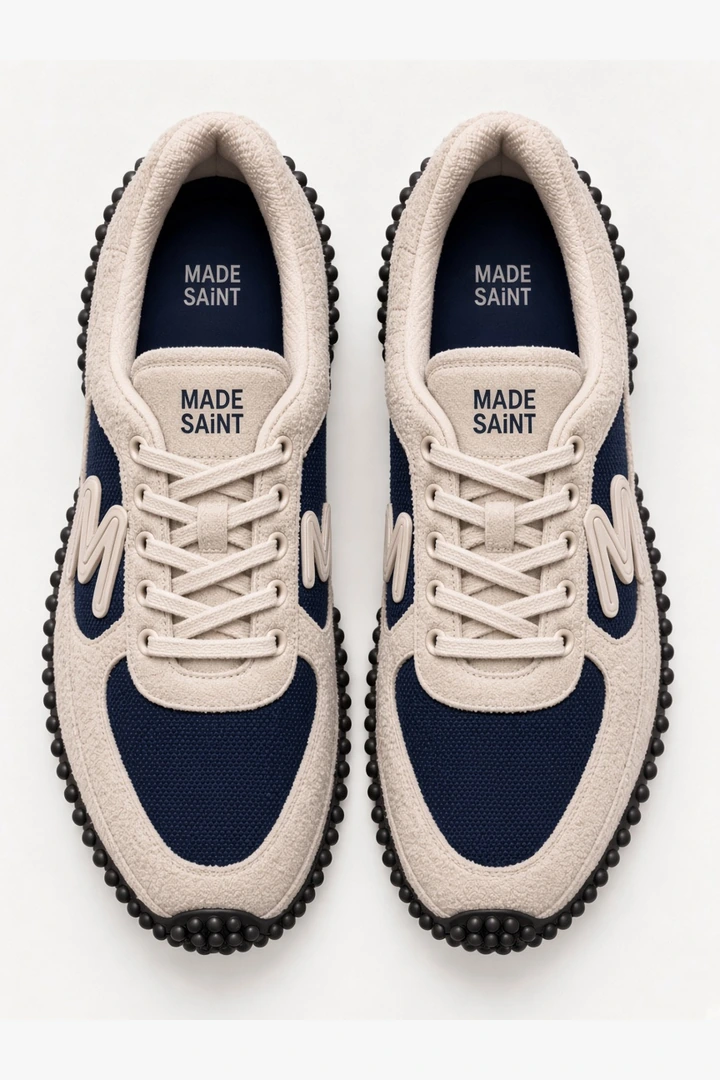
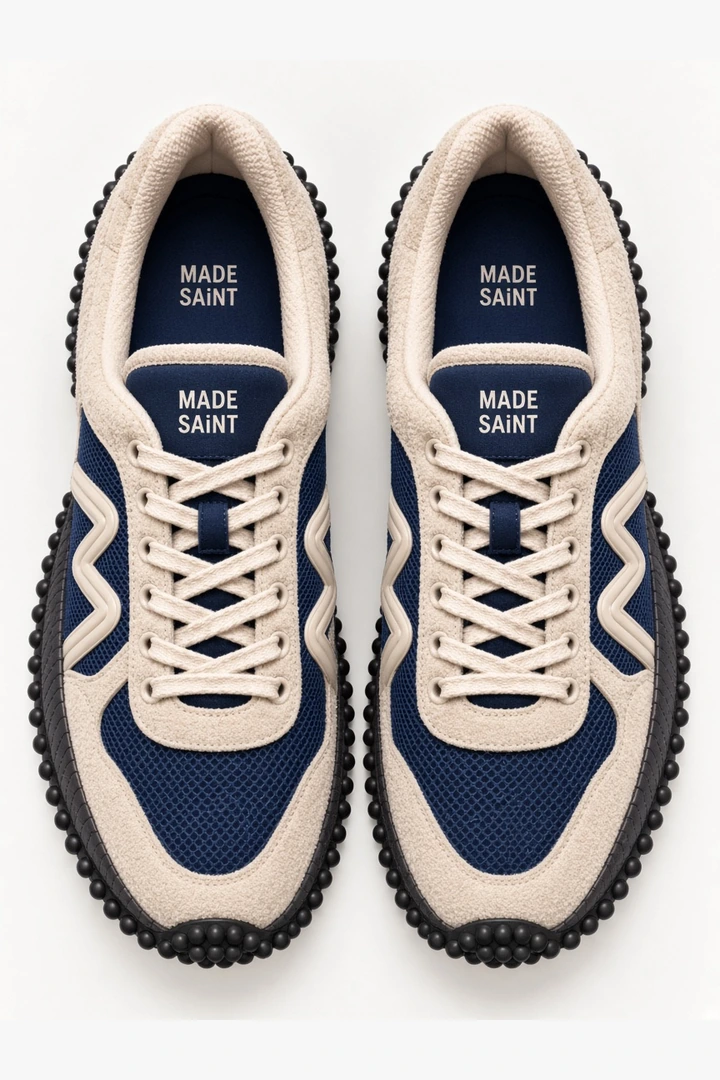
Lock the three-peak TPU wave on all four quarter panels.
Replace the letter-M treatments with the molded zig-zag from the logo close-ups, the same length and three peaks on lateral and medial of every colorway. Update the brand vector and flats to that solid wave, including both sidewalls on the top view.

diff --git a/src/app/brand/page.tsx b/src/app/brand/page.tsx
@@ -7,8 +7,8 @@ import { RunnerFlat, type RunnerVariant } from "@/components/flats/runner";
 import { MARK_PLACEMENTS, tonalMark, type MarkPlacementId } from "@/components/flats/mark";
 
 export const metadata: Metadata = {
-  title: "MADE SAiNT · M side mark",
-  description: "Placement study and specification for the tonal M side mark on the runner.",
+  title: "MADE SAiNT · wave side mark",
+  description: "Placement study and specification for the molded TPU wave on both quarter panels of the runner.",
 };
 
 const PAPER = "#f4f0e6";
@@ -98,9 +98,9 @@ export default function BrandPage() {
           <div>
             <h1 className="font-serif text-4xl leading-none">The M</h1>
             <p className="mt-3 max-w-2xl text-[14px] leading-relaxed text-[#22201d]/75">
-              A wide, forward-leaning monoline M with an inline channel, carried over from the nested-bar mark. Every application is tonal:
-              the mark is the overlay colour a step lighter, keylined a step darker. Placement follows the rules New Balance uses for
-              the N on the 9060; the letterform is our own.
+              A long three-peak zig-zag wave in molded TPU, not a letter M and not a stitched channel. It sits on the quarter mesh
+              of both the lateral and the medial, peaks toward the laces, tonal to the overlay, keylined a step darker. Placement
+              follows the 9060 midfoot rules; the wave is our own.
             </p>
             <a href="/brand/m-mark.svg" download className="mt-4 inline-block font-mono text-[11px] tracking-[0.1em] uppercase underline underline-offset-4">
               Download vector
@@ -154,7 +154,7 @@ export default function BrandPage() {
           </div>
           <dl className="divide-y divide-[#22201d]/10 self-center text-[13px]">
             {[
-              ["Position", "Lateral side, midfoot. Medial side stays clean."],
+              ["Position", "Lateral and medial quarter panels, matching pair. Four marks on a pair."],
               ["Size, US 9", `About ${markW} × ${markH} mm. Grade with the pattern, not by a fixed size.`],
               ["Lean", `${Math.abs(q.lean)}° forward`],
               ["Span", "37% to 63% of length from the heel"],
@@ -162,9 +162,9 @@ export default function BrandPage() {
               ["Bottom", "About 5 mm above the midsole line, on the lower overlay"],
               ["Swatch", `Fill ${tones.fill}, keyline ${tones.keyline} on overlay ${hero.colors.quarter}`],
               ["Colour", "Tonal only: mark one step lighter than the overlay, keyline one step darker"],
-              ["Stroke", "Inline channel 2 mm, panel shows through; keyline 1.5 mm"],
-              ["Material", "Tonal suede or nubuck overlay, stitched. Silver or contrast versions are not used."],
-              ["Process", "Cut and stitched onto the closed upper before lasting"],
+              ["Stroke", "Solid molded TPU, about 8 mm wide, three peaks toward the laces"],
+              ["Material", "Glossy molded TPU, tonal to the overlay. Silver or contrast versions are not used."],
+              ["Process", "Molded and bonded to the quarter window on the closed upper before lasting"],
             ].map(([k, v]) => (
               <div key={k} className="grid grid-cols-[110px_1fr] gap-3 py-2">
                 <dt className="font-mono text-[10px] tracking-[0.1em] text-[#22201d]/55 uppercase">{k}</dt>

diff --git a/src/components/flats/mark.tsx b/src/components/flats/mark.tsx
@@ -1,10 +1,10 @@
 import { lightness, mix } from "@/lib/color";
 import { INK } from "./textures";
 
-/** The M side mark, same geometry as public/brand/m-mark.svg (local units, before skew). */
-export const M_PATH = "M58 204 L104 66 Q116 32 140 60 L232 168 Q250 188 268 168 L360 60 Q384 32 396 66 L442 204";
-const OUTER = 54;
-const INNER = 14;
+/** Three-peak zig-zag wave, same geometry as public/brand/m-mark.svg (local units, before skew). */
+export const M_PATH =
+  "M58 204 L100 66 Q112 32 136 60 L180 168 Q196 188 212 168 L256 60 Q270 32 284 60 L328 168 Q344 188 360 168 L404 60 Q418 32 432 66 L442 204";
+const STROKE = 58;
 
 export type MarkPlacementId = "midfoot" | "quarter" | "window" | "full";
 
@@ -39,29 +39,19 @@ export function tonalMark(overlay: string): MarkTone {
     : { fill: mix(hex, "#ffffff", 0.17), keyline: mix(hex, "#000000", 0.3) };
 }
 
-/** Inline M with a keyline border; the channel shows the panel underneath. */
+/** Solid molded TPU wave: three peaks toward the laces, keylined, no inline channel. */
 export function MMark({ uid, placement, tone, clip }: { uid: string; placement: MarkPlacement; tone?: MarkTone; clip?: string }) {
   if (!placement) return null;
   const { fill, keyline } = tone ?? tonalMark("#7f5f65");
   const { tx, ty, sx, sy, lean } = placement;
-  const id = `${uid}-m-${placement.id}`;
   const k = 3.2 / Math.min(sx, sy);
   const e = 1.4 / Math.min(sx, sy);
-  const layer = (key: string, outer: number, inner: number, fill: string) => (
-    <>
-      <mask id={`${id}-${key}`} maskUnits="userSpaceOnUse" x="-200" y="-100" width="1000" height="440">
-        <path d={M_PATH} fill="none" stroke="#fff" strokeWidth={outer} strokeLinecap="round" strokeLinejoin="round" />
-        <path d={M_PATH} fill="none" stroke="#000" strokeWidth={inner} strokeLinecap="round" strokeLinejoin="round" />
-      </mask>
-      <rect x="-200" y="-100" width="1000" height="440" fill={fill} mask={`url(#${id}-${key})`} />
-    </>
-  );
   return (
     <g clipPath={clip ? `url(#${clip})` : undefined}>
-      <g transform={`translate(${tx} ${ty}) skewX(${lean}) scale(${sx} ${sy})`}>
-        {layer("ink", OUTER + 2 * k + e, Math.max(1, INNER - e), INK)}
-        {layer("key", OUTER + 2 * k, INNER, keyline)}
-        {layer("fill", OUTER, INNER + k, fill)}
+      <g transform={`translate(${tx} ${ty}) skewX(${lean}) scale(${sx} ${sy})`} fill="none" strokeLinecap="round" strokeLinejoin="round">
+        <path d={M_PATH} stroke={INK} strokeWidth={STROKE + 2 * k + e} />
+        <path d={M_PATH} stroke={keyline} strokeWidth={STROKE + 2 * k} />
+        <path d={M_PATH} stroke={fill} strokeWidth={STROKE} />
       </g>
     </g>
   );

diff --git a/src/components/flats/runner.tsx b/src/components/flats/runner.tsx
@@ -219,6 +219,17 @@ function Top({ uid, colors, paper, variant }: ViewProps) {
         <text x="229" y="131" fontSize="8">SAiNT</text>
       </g>
 
+      {variant.mark && (
+        <>
+          <g transform="translate(268 46) rotate(90) scale(0.2 0.155) translate(-250 -118)">
+            <MMark uid={`${uid}-tl`} placement={MARK_PLACEMENTS[variant.mark]} tone={tonalMark(colors.quarter)} />
+          </g>
+          <g transform="translate(268 204) rotate(-90) scale(0.2 0.155) translate(-250 -118)">
+            <MMark uid={`${uid}-tm`} placement={MARK_PLACEMENTS[variant.mark]} tone={tonalMark(colors.quarter)} />
+          </g>
+        </>
+      )}
+
       {T_EYELET_X.map((x) => (
         <g key={x}>
           <path d={`M ${x} 101 L ${x} 149`} stroke={INK} strokeWidth="5.6" strokeLinecap="round" />
